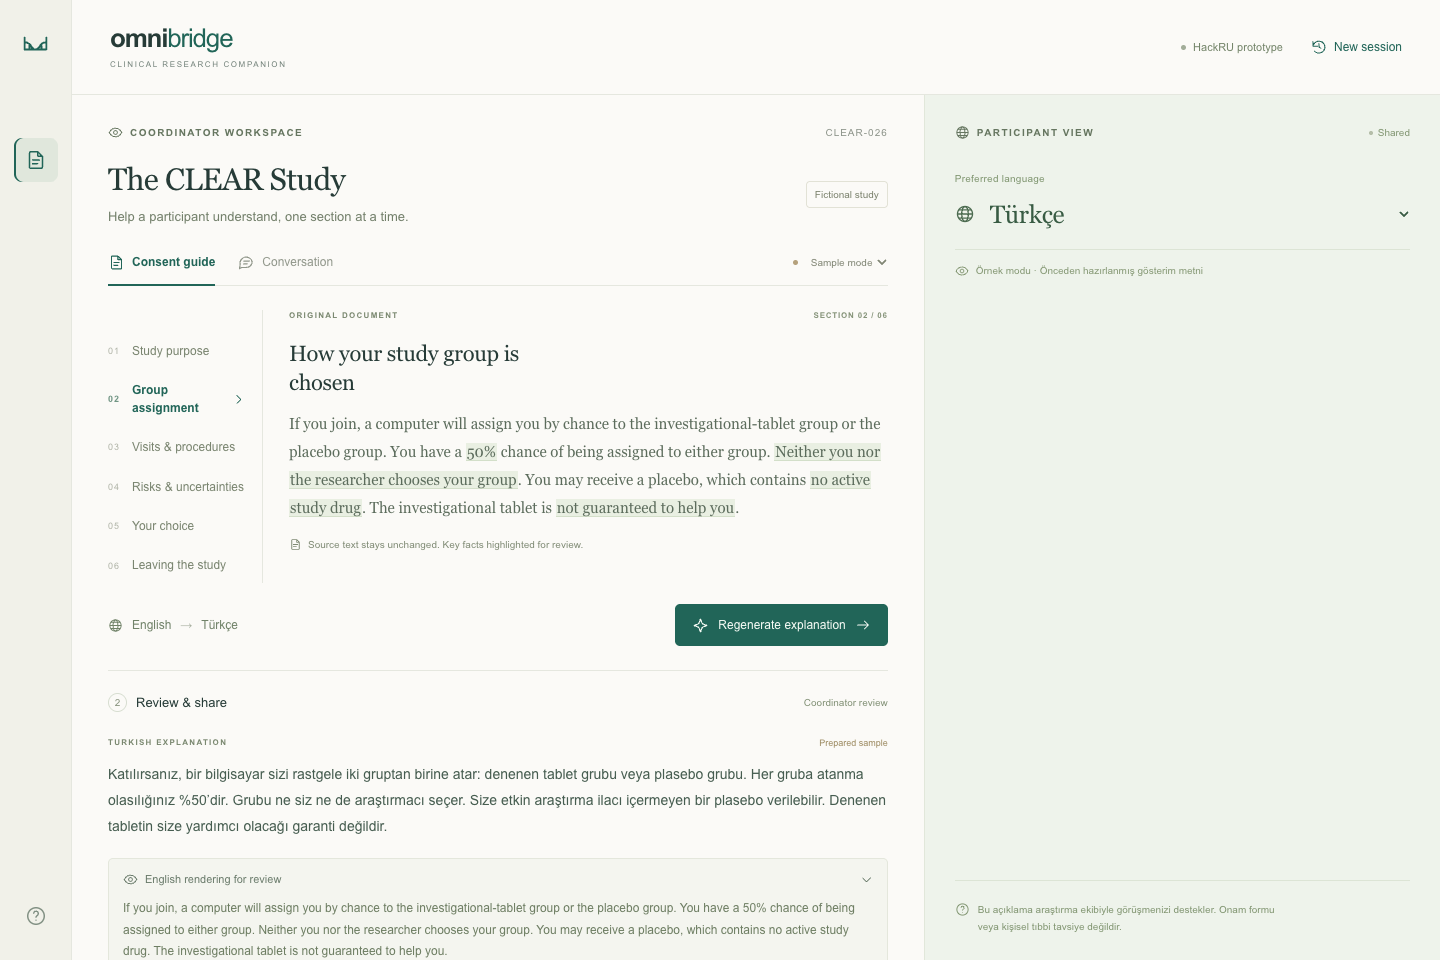
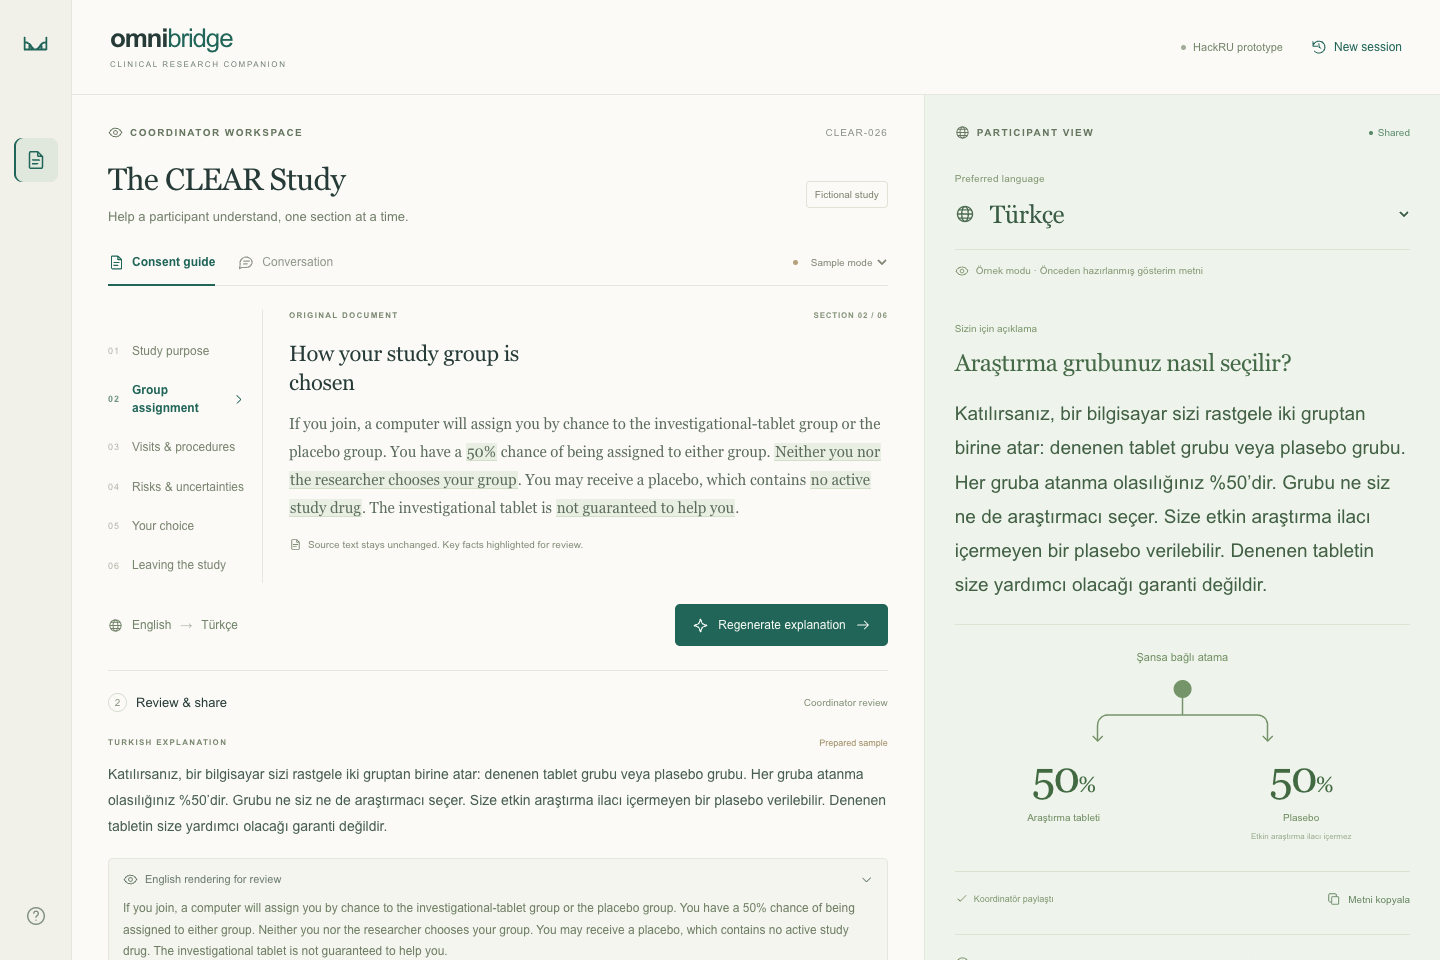
Finish demo materials and correct participant footer layout

diff --git a/src/app/globals.css b/src/app/globals.css
@@ -6,6 +6,7 @@
 .transcript-actions{display:flex;gap:15px;align-items:center}.transcript-count{text-align:right;font-size:10px;color:#77836f;margin-top:7px}.source-citations{margin-top:14px;border-bottom:1px solid var(--line);padding-bottom:13px}.source-citations summary{list-style:none;display:flex;align-items:center;justify-content:space-between;font-size:11px;color:#71856a;cursor:pointer}.source-citations summary::-webkit-details-marker{display:none}.source-citations summary>span{display:flex;align-items:center;gap:6px}.source-citations summary>svg{transform:rotate(90deg)}.source-citations:not([open]) summary>svg{transform:rotate(0)}.source-citations article{margin-top:15px}.source-citations h3{font-size:11px;font-weight:500;color:#5c7458;margin-bottom:7px}.source-citations p{font-size:11px;line-height:1.8;color:#798670;margin-top:10px}.role-label{font-size:10px;color:#667660}.workspace-title-row p{font-size:13px;color:#73806b}.section-navigation button{font-size:12px;color:#7a8570}.source-document>p{font-size:15px;color:#5c6c5c}.document-footnote{font-size:10px;color:#808b75}.primary-button{font-size:12px}.generate-row>p{font-size:12px;color:#718369}.review-status{font-size:10px;color:#819075}.review-empty p{font-size:12px;color:#85917a}.translated-draft{font-size:14px}.back-translation summary{font-size:11px}.back-translation p{font-size:12px;color:#6e7e63}.back-translation small{font-size:10px;color:#849078}.review-flag{font-size:11px}.review-confirmation{font-size:11px;color:#6c7e61}.release-row>p{font-size:10px;color:#839177}.coordinator-footer{font-size:9px;color:#829074}.participant-status{font-size:10px;color:#819571}.language-selector>span{font-size:10px;color:#7e946e}.sample-notice{font-size:10px;color:#849773}.participant-empty>p{color:#819a72}.participant-bottom{color:#819571}.participant-bottom p{font-size:10px}.participant-section-label{color:#7a946b}.participant-actions>span{font-size:9px;color:#7f966f}.participant-actions .text-button{font-size:10px}.speech-row>span{font-size:10px;color:#839476}.microphone-button{font-size:11px}.fictional-tag{color:#7b826d}.review-empty h3{color:#6d7f63}.eyebrow{color:#7a8870}.source-document>.eyebrow span{color:#859379}.help-panel p{color:#73856a}.prototype-label{color:#738469}
 .workspace-columns{height:calc(100svh - 95px);min-height:0}.coordinator-column,.participant-panel{overflow-y:auto;scrollbar-width:thin;scrollbar-color:#cbd6c3 transparent}.coordinator-column::-webkit-scrollbar,.participant-panel::-webkit-scrollbar{width:5px}.coordinator-column::-webkit-scrollbar-thumb,.participant-panel::-webkit-scrollbar-thumb{background:#cbd6c3;border-radius:4px}.coordinator-column::-webkit-scrollbar-track,.participant-panel::-webkit-scrollbar-track{background:transparent}
 .source-highlight{background:#e9efe2;color:inherit;box-shadow:0 1px 0 #d3dfc9;box-decoration-break:clone;-webkit-box-decoration-break:clone;padding:0 1px}
+.participant-content.has-explanation{flex:0 0 auto}.participant-bottom{margin-top:auto;flex-shrink:0}
 @keyframes fade-in{from{opacity:0;transform:translateY(4px)}to{opacity:1;transform:translateY(0)}}@keyframes explanation-in{from{opacity:0;transform:translateY(9px)}to{opacity:1;transform:translateY(0)}}@keyframes spin{to{transform:rotate(360deg)}}@keyframes loading-pulse{50%{opacity:.4}}@keyframes listening-pulse{50%{box-shadow:0 0 0 3px #d2e3cf}}
 @media(min-width:1500px){.coordinator-column{padding:35px 48px 22px}.participant-panel{padding:35px 42px 28px}.source-document>p{font-size:16px}.source-document h2{font-size:25px}.consent-layout{grid-template-columns:175px 1fr;gap:32px;min-height:300px}.section-navigation button{font-size:12px}.participant-translation{font-size:22px}.workspace-title-row h1{font-size:35px}.workspace-title-row{padding-bottom:32px}.source-panel{padding-top:29px}.review-empty{padding:45px 0}.participant-empty{max-width:320px}.participant-empty h2{font-size:32px}}
 @media(max-width:1180px){.coordinator-column{padding:27px 24px 16px}.participant-panel{padding:27px 23px 22px}.workspace-columns{grid-template-columns:minmax(530px,1.6fr) minmax(300px,1fr)}.session-header{padding:0 25px}.consent-layout{grid-template-columns:132px 1fr;gap:19px}.section-navigation{padding-right:11px}.section-navigation button{font-size:10px;gap:6px}.source-document h2{font-size:21px}.source-document>p{font-size:13px}.role-label{font-size:8px;letter-spacing:1px}.participant-status{font-size:8px}.mode-tabs{gap:16px}.mode-tabs button{font-size:11px}.engine-control select{font-size:9px}.participant-translation{font-size:17px}.participant-explanation h2{font-size:22px}.participant-empty h2{font-size:26px}.release-row{align-items:flex-start;flex-direction:column}.release-row>p{max-width:none}.release-row .primary-button{align-self:flex-end}.coordinator-footer{flex-wrap:wrap;font-size:7px}.coordinator-footer>span:last-child{margin-left:0;flex-basis:100%;padding-left:19px}}

diff --git a/README.md b/README.md
@@ -9,12 +9,14 @@ Both modes keep the source visible, show an English back-translation for coordin
 
 [Public source repository](https://github.com/SonicGoodmorning/omni-bridge-hackru-2026)
 
+[Hosted sample preview](https://temporary-express-monsoon-5gkbxhw.vercel.app) — created October 10, 2026; Vercel reports that the initially temporary deployment has been claimed. The hosted preview has no Gemini key configured, so use **Sample mode** there.
+
 ## Run locally
 
 Use Node.js 22 or newer and npm. From the repository directory:
 
 ```sh
-npm install
+npm ci
 cp .env.example .env.local
 npm run dev
 ```
@@ -38,6 +40,8 @@ npm run test:e2e
 ```
 
 Alternatively, use an existing compatible Chrome installation with `PLAYWRIGHT_CHROME_PATH=/absolute/path/to/chrome npm run test:e2e`. The test configuration starts a development server on port 3000, or reuses an existing one outside CI. Unit tests run through Node's test runner with `tsx`; browser tests use Playwright.
+
+For persistent hosting, [import the GitHub repository into Vercel](https://vercel.com/docs/git/vercel-for-github) as a Next.js project. Keep it in Sample mode without credentials, or configure `GEMINI_API_KEY` and `GEMINI_MODEL` in the project's private environment-variable settings for a controlled live demonstration, then redeploy. Local `.env.local` values are not part of the public repository or the temporary preview.
 
 ## Sample walkthrough and live engine
 
@@ -72,7 +76,7 @@ See the [API contract](docs/api.md) for request and response fields and the [man
 
 ## Validation recorded so far
 
-The production build, type checking, 25 unit tests, and 10 browser tests passed during development. Type checking also passed from a fresh clone. All 11 presentation slides and the rendered PDF pages were visually checked. The browser speech cases use simulated recognition, so real microphone testing remains pending. A live Gemini run completed randomization explanations in Turkish, Spanish, Portuguese, and Hindi; quota errors prevented the remaining live cases, including Mandarin and conversation. See the [run record](docs/acceptance.md) and [synthetic live QA report](docs/live-qa.json) for exact coverage. No qualified language review or clinical validation is established by these checks.
+The production build, type checking, 25 unit tests, and 10 browser tests passed during development. A fresh GitHub clone also passed `npm ci`, type checking, all 25 unit tests, and the production build with the example environment copied into place. All 11 presentation slides and the rendered PDF pages were visually checked. The browser speech cases use simulated recognition, so real microphone testing remains pending. A live Gemini run completed randomization explanations in Turkish, Spanish, Portuguese, and Hindi; quota errors prevented the remaining live cases, including Mandarin and conversation. See the [run record](docs/acceptance.md) and [synthetic live QA report](docs/live-qa.json) for exact coverage. No qualified language review or clinical validation is established by these checks.
 
 ## Privacy and prototype limits
 
@@ -87,7 +91,7 @@ The production build, type checking, 25 unit tests, and 10 browser tests passed 
 
 Follow the [three-minute demo walkthrough](docs/demo.md). Open [the 11-slide presentation](docs/demo-slides.html) directly in a browser; use the arrow keys, Home/End, or the navigation controls. A [printable PDF](docs/demo-slides.pdf) is also included. All assets and styles are local to the HTML file.
 
-The submission capture workflow uses `public/demo-slides.html` for the web-served presentation at [localhost:3000/demo-slides.html](http://localhost:3000/demo-slides.html), `docs/screenshots/workspace.png` for the workspace image, and `docs/demo.webm` for the demonstration recording. These capture outputs are produced separately from the editable deck source; confirm they exist before sharing them.
+The deck is also served at [localhost:3000/demo-slides.html](http://localhost:3000/demo-slides.html). Captured materials include a [desktop workspace image](docs/screenshots/desktop-workspace.png), a [mobile viewport image](docs/screenshots/mobile.png), and a [silent, captioned sample walkthrough](docs/demo.webm) lasting 3 minutes and 0.68 seconds. The recording demonstrates fixed **Prepared sample** output and the review/release workflow; the separate live QA report documents the actual Gemini calls.
 
 Regeneron's [HackRU judging document](https://docs.google.com/document/d/15uxWxH70wIqqCJw9W6IX4BHoVz4rDBDuj6FSb5GublI/edit) asks for an open-source solution and strongly favors a GitHub repository. MIT is preferred, rather than mandatory. A demo video and brief deck are listed as presentation materials; approximately three minutes and 10–12 slides are suggestions, with longer submissions allowed. This repository uses the [MIT license](LICENSE). Repository publication and application hosting are separate from preparing these local materials.
 

diff --git a/docs/demo.md b/docs/demo.md
@@ -41,4 +41,4 @@ Speech recognition can change punctuation or numerals. Review and correct the te
 
 ## Deliverables
 
-The local HTML presentation has 11 slides and can print to a landscape PDF. A demo video must still be recorded. Before submission, verify the current organizer form and sponsor requirements, include a reproducible repository, and remove all credentials and personal material. Regeneron describes a roughly three-minute video and 10–12-slide deck as suggested lengths, not hard limits.
+The local HTML presentation has 11 slides, with an exported PDF included. The [silent, captioned walkthrough](demo.webm) lasts 3 minutes and 0.68 seconds and demonstrates fixed Prepared sample output and the review/release workflow. It does not show live Gemini generation or validate real microphone behavior; actual live requests are documented in [the QA report](live-qa.json). Before submission, verify the current organizer form and sponsor requirements, include a reproducible repository, and remove all credentials and personal material. Regeneron describes a roughly three-minute video and 10–12-slide deck as suggested lengths, not hard limits.

diff --git a/docs/acceptance.md b/docs/acceptance.md
@@ -12,7 +12,7 @@ Use synthetic data and consenting teammates. Check a box only after the test is 
 | `npm run test:e2e` | 10 browser tests passed | October 10, 2026; implementation run reported by the root agent |
 | HTML presentation layout | 11 slides checked; no overflow observed | October 10, 2026; browser review reported by the root agent |
 | Exported PDF visual review | All 11 rendered pages checked; no clipping or overlap observed | October 10, 2026; PDF rendered-page inspection after print-layout correction |
-| Clean setup with README | Not recorded | |
+| Clean setup with README | Passed | October 10, 2026; fresh GitHub clone, `npm ci`, example environment copied, type checking, 25 unit tests, and production build; reported by the root agent |
 | Type checking from a fresh clone | Passed | October 10, 2026; `next typegen` then `tsc --noEmit`, reported by the root agent |
 | Browser consent and conversation walkthrough | Not recorded | |
 | Live Turkish randomization smoke check | HTTP 200; 6,385 ms; `canRelease: true` | October 10, 2026; one development request reported by the root agent |
